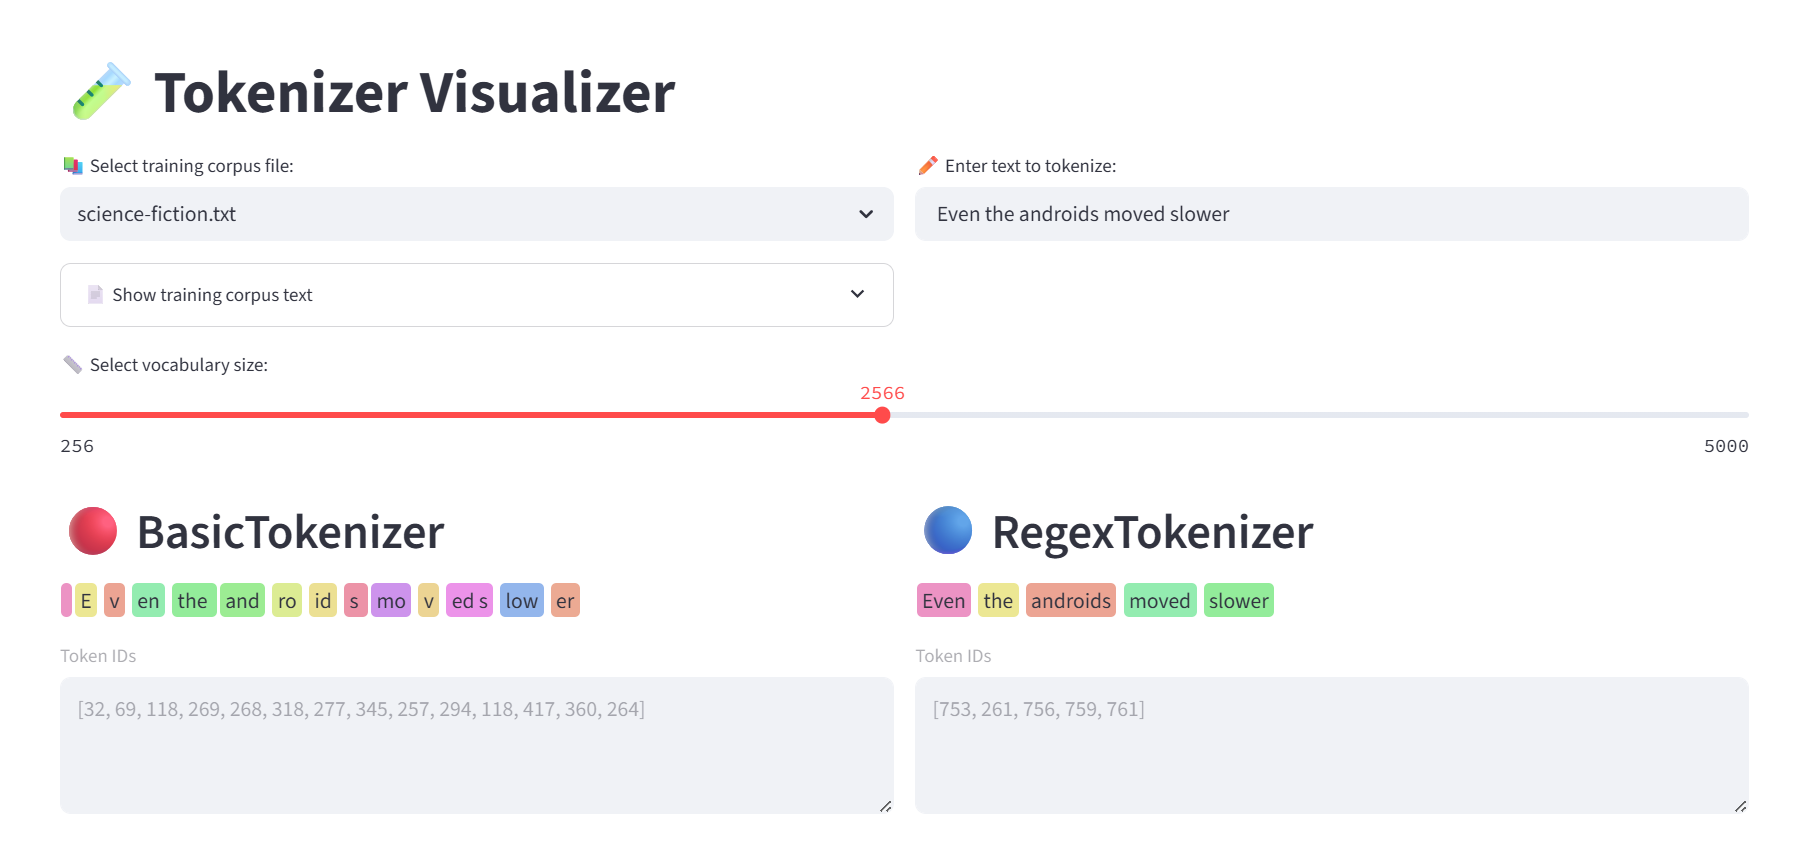
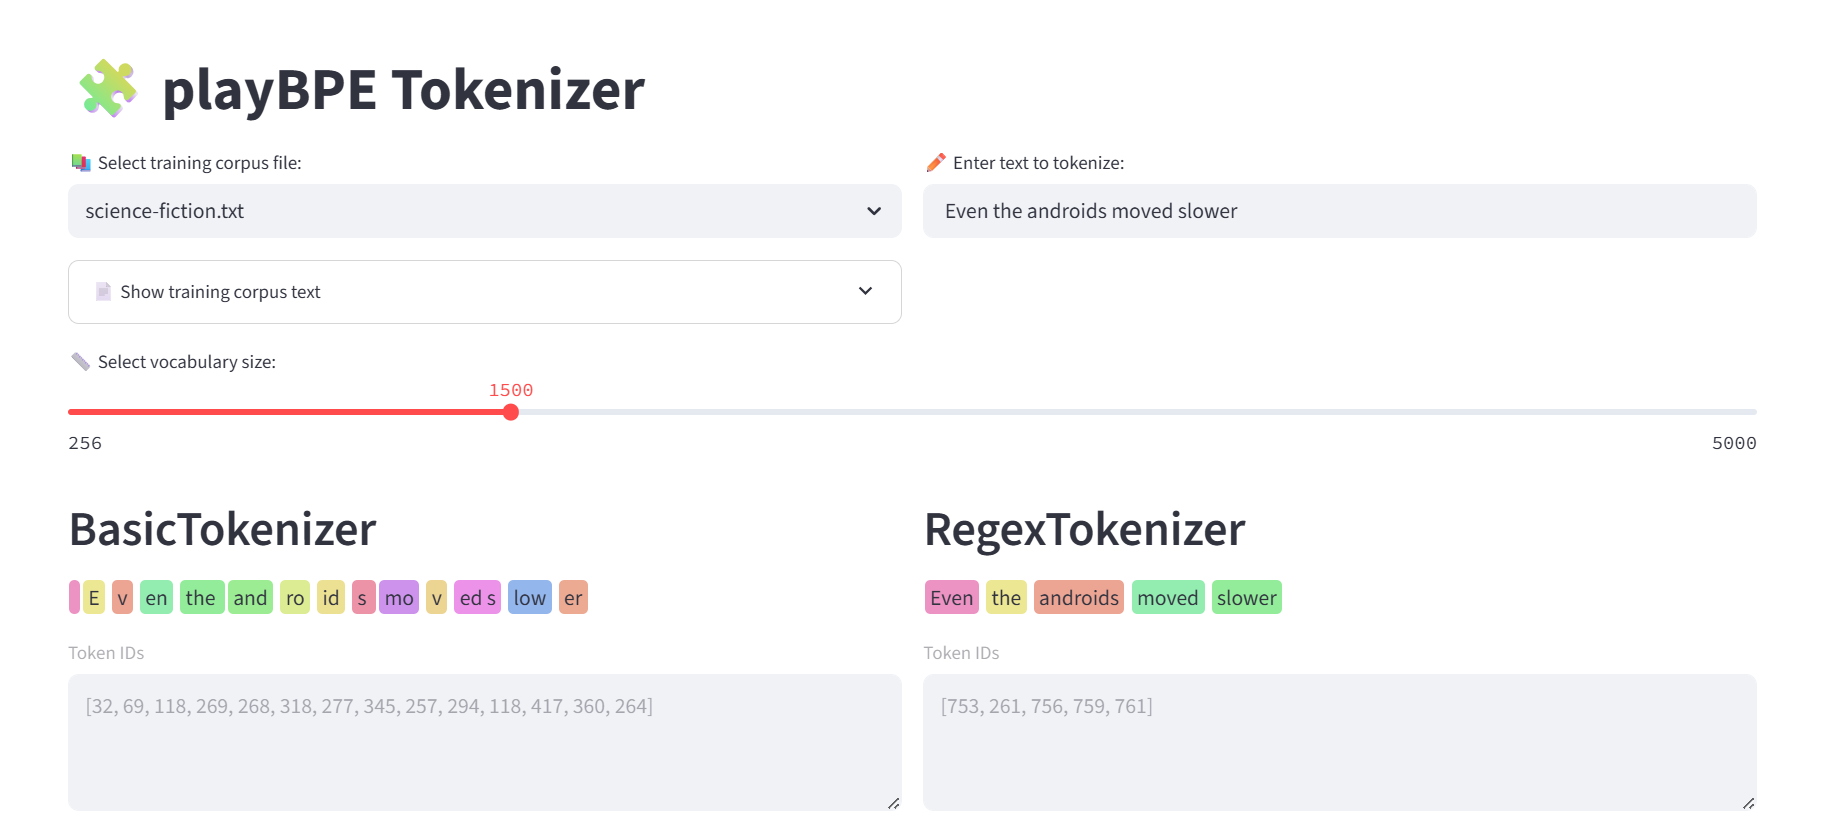
front adjustments

diff --git a/scripts/tokenizer_viewer.py b/scripts/tokenizer_viewer.py
@@ -13,8 +13,8 @@ def generate_colors(n):
     return [f"hsl({random.randint(0, 360)}, 70%, 75%)" for _ in range(n)]
 
 # --- App layout ---
-st.set_page_config(page_title="Tokenizer Visualizer", layout="wide")
-st.title("🧪 Tokenizer Visualizer")
+st.set_page_config(page_title="🧩 playBPE Tokenizer", layout="wide")
+st.title("🧩 playBPE Tokenizer")
 
 # --- Catalog of corpus files ---
 CORPUS_DIR = "corpora"
@@ -70,13 +70,13 @@ r_colors = generate_colors(len(r_tokens))
 col3, col4 = st.columns(2)
 
 with col3:
-    st.header("🔴 BasicTokenizer")
+    st.header("BasicTokenizer")
     colored_btokens = " ".join([color_token(tok, col) for tok, col in zip(b_tokens, b_colors)])
     st.markdown(colored_btokens, unsafe_allow_html=True)
     st.text_area("Token IDs", value=str(b_ids), height=100, key="basic_ids", disabled=True)
 
 with col4:
-    st.header("🔵 RegexTokenizer")
+    st.header("RegexTokenizer")
     colored_rtokens = " ".join([color_token(tok, col) for tok, col in zip(r_tokens, r_colors)])
     st.markdown(colored_rtokens, unsafe_allow_html=True)
     st.text_area("Token IDs", value=str(r_ids), height=100, key="regex_ids", disabled=True)

diff --git a/README.md b/README.md
@@ -31,4 +31,4 @@ Run [tokenizer_viewer.py](scripts/tokenizer_viewer.py)
 
 Go to http://localhost:8501 in your browser.
 
-![alt text](images/image3.png)
+![alt text](images/image0.png)
